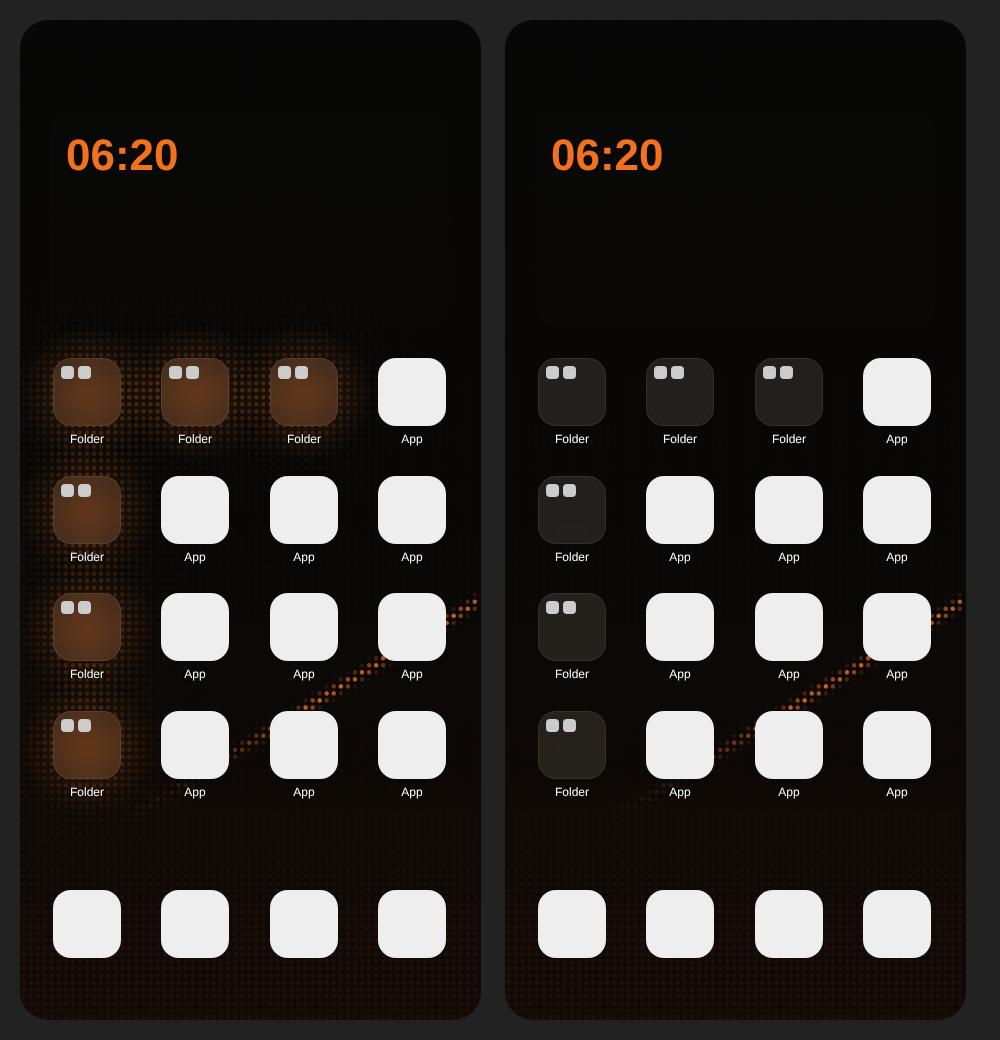
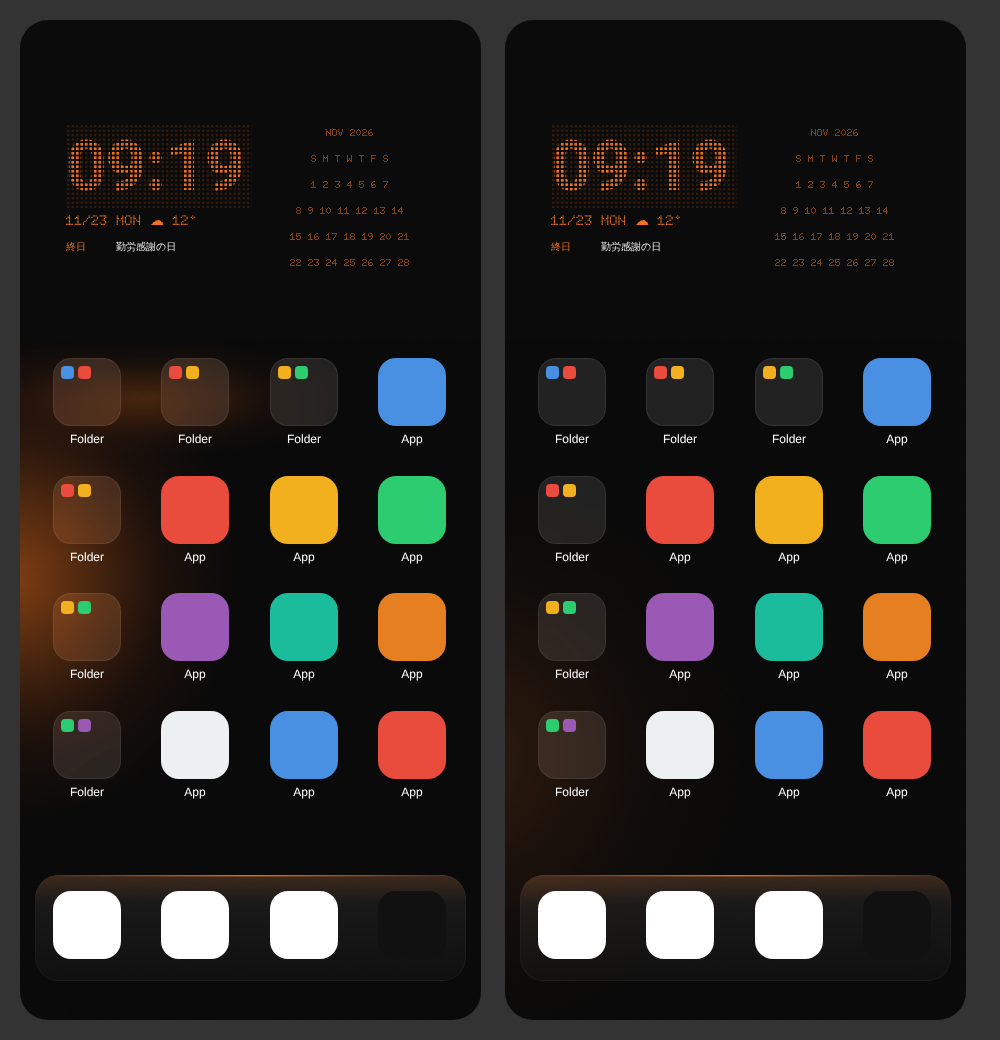
design: 壁紙をEmber版に刷新+「ドット」の透過時に消灯ドットの四角を出さない
- 壁紙: 背景をウィジェットと同じ#0B0B0Bにし、不透明ウィジェットが溶け込む
  ように。全面のドット柄をやめ、左下から差すオレンジの光でフォルダに
  コントラスト。ドック位置にオレンジのヘアライン付きガラス調の棚を追加
- 「ドット」: 透明度60%未満では消灯ドットの網目を表示しない(壁紙の上に
  長方形が浮いて見えるため)

Claude-Session: https://claude.ai/code/session_0179icErXwPdFdgioC6p5f9V

diff --git a/app/src/main/java/com/souru/koyomi/widget/DotWidget.kt b/app/src/main/java/com/souru/koyomi/widget/DotWidget.kt
@@ -322,11 +322,18 @@ class DotWidget : GlanceAppWidget() {
     ): RemoteViews =
         RemoteViews(context.packageName, R.layout.widget_dot_clock).apply {
             setTextColor(R.id.dot_clock_time, lit)
-            setInt(
-                R.id.dot_clock_ghost,
-                "setBackgroundResource",
-                if (dark) color.ghostDark else color.ghostLight,
-            )
+            // The unlit-LED grid reads as a panel on a solid widget, but on a
+            // see-through one it's just a rectangle floating on the wallpaper
+            // — show it only when the widget is mostly opaque.
+            if (look.opacityPercent >= 60) {
+                setInt(
+                    R.id.dot_clock_ghost,
+                    "setBackgroundResource",
+                    if (dark) color.ghostDark else color.ghostLight,
+                )
+            } else {
+                setViewVisibility(R.id.dot_clock_ghost, android.view.View.GONE)
+            }
             // Mask tiles are pre-baked at 20% steps of opacity (no runtime
             // alpha call, which older launchers can't apply to a view).
             val step = ((look.opacityPercent + 10) / 20).coerceIn(0, 5)

diff --git a/docs/wallpapers/README.md b/docs/wallpapers/README.md
@@ -1,11 +1,15 @@
-# こよみ 壁紙（黒 × オレンジ / LEDドット）
+# こよみ 壁紙（黒 × オレンジ / Ember）
 
-透過した「ドット」ウィジェットに合わせた、黒基調・オレンジ差し色の壁紙です。1440×3120（19.5:9）。
+「ドット」ウィジェットと一体に見えるよう設計した、黒基調・オレンジ差し色の壁紙です。1440×3120（19.5:9）。
+
+- 背景の黒は **#0B0B0B = ウィジェット(ダーク)の背景色と同じ**。ウィジェットを不透明(100%)にすると枠が消え、時計だけが浮かびます
+- 左下から差し込むオレンジの光が、半透明フォルダ(左列+上段)に温かい色を透かしてコントラストを付けます
+- ドックの位置に、オレンジのヘアライン付きのガラス調の棚
 
 | ファイル | 内容 |
 |---|---|
-| `koyomi-dot-black-orange.png` | フォルダ位置(左列4つ+上段の2つ)の背後にオレンジのLEDをほんのり灯し、半透明フォルダにコントラストを付けた版 |
-| `koyomi-dot-black-orange-plain.png` | 同じデザインでフォルダ用の灯りなし(アイコン配置を変えた場合用) |
-| `preview.png` | ホーム画面に置いたときのイメージ(左: フォルダ版 / 右: プレーン版) |
+| `koyomi-ember-black.png` | フォルダ位置(左列+上段)に光を当てた版 |
+| `koyomi-ember-black-plain.png` | 光を下の方に控えめにした版(アイコン配置を変えた場合用) |
+| `preview.png` | ホーム画面のイメージ(左: 通常版 / 右: プレーン版) |
 
-おすすめ設定: 「ドット」ウィジェットはテーマ=ダーク、透明度 0〜30%。
+おすすめ設定: 「ドット」ウィジェット = テーマ「ダーク」・透明度 **100%(不透明)**。
